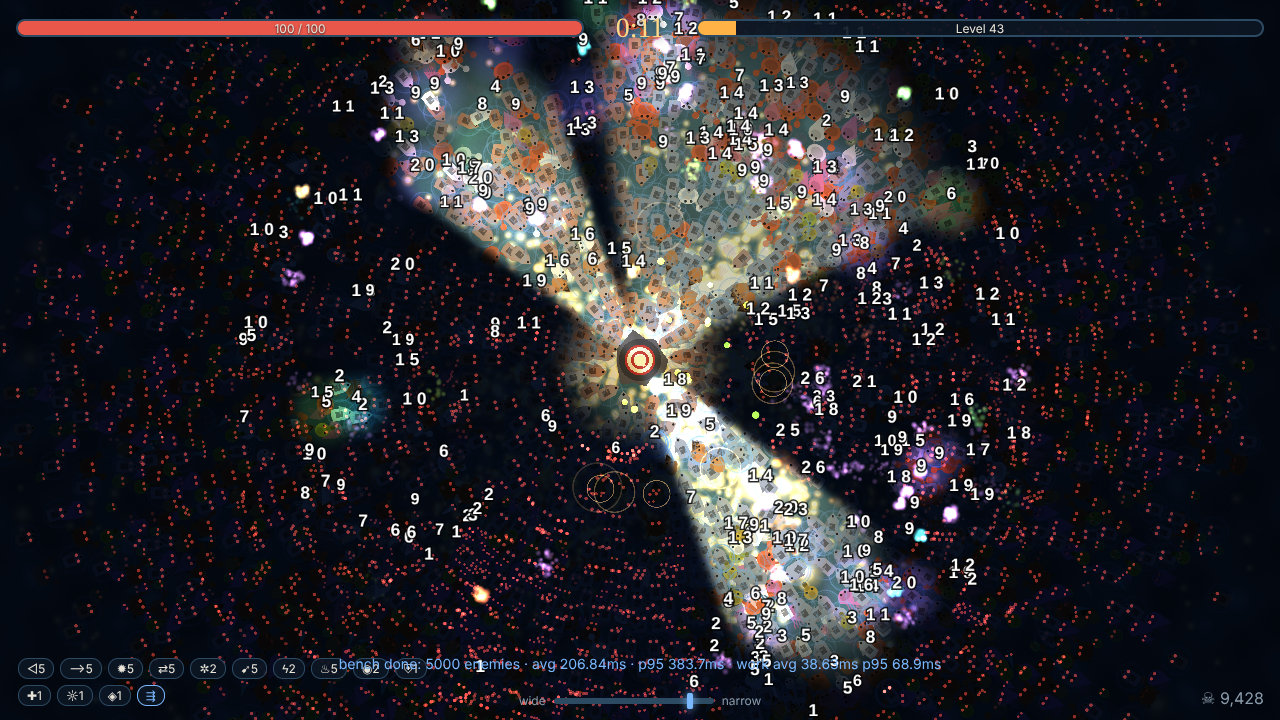
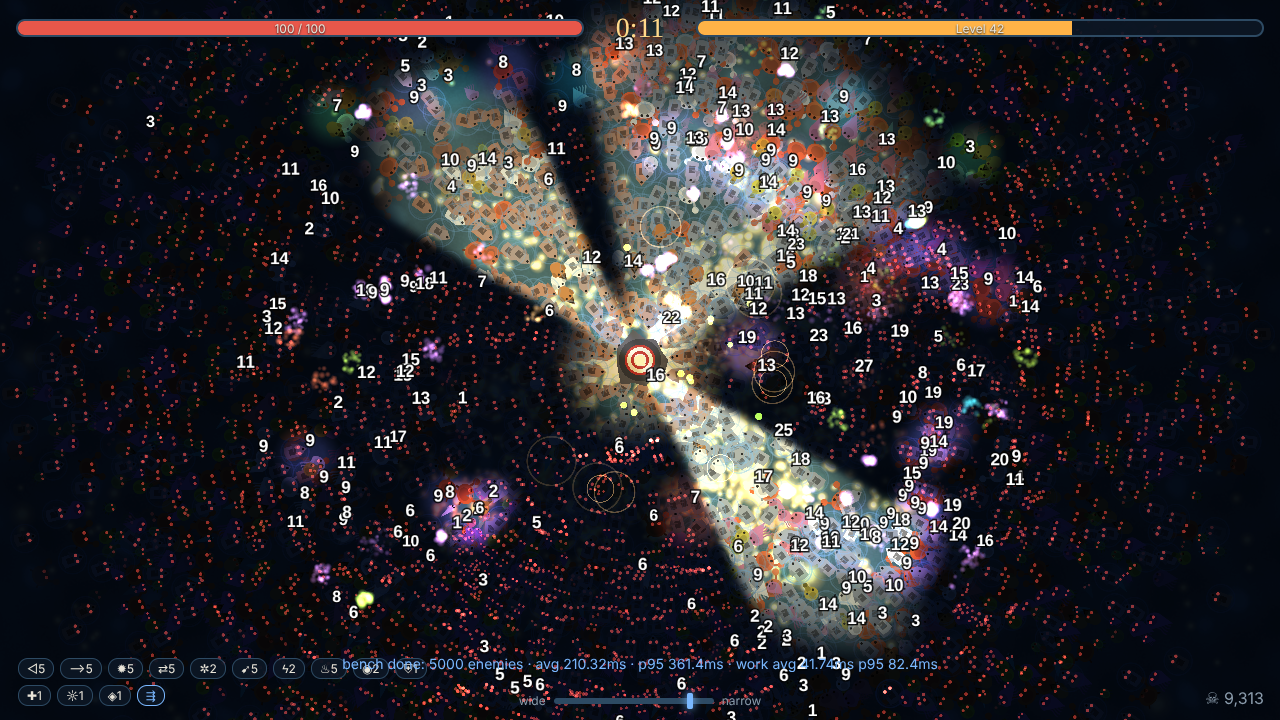
M3+M4: menus/meta/settings checks, allocation profiling, screenshots, ITCH.md, itch.io package
Claude-Session: https://claude.ai/code/session_013c4jhh87XePh3AQefsztWg

diff --git a/src/render/partPool.ts b/src/render/partPool.ts
@@ -35,10 +35,14 @@ export class PartPool {
     p.rotation = rot;
     p.scaleX = sx;
     p.scaleY = sy;
-    // write the packed ABGR colour directly (the tint/alpha setters go through Color parsing)
+    // write the packed ABGR colour directly (the tint/alpha setters go through Color parsing),
+    // and only when it changed: packed colours with high alpha are outside V8's small-int
+    // range, so every write would box a new HeapNumber
     const a = alpha < 0 ? 0 : alpha > 1 ? 1 : alpha;
-    p.color = ((tint & 0xff) << 16) + (tint & 0xff00) + ((tint >> 16) & 0xff) + (((a * 255) | 0) << 24);
-    p.texture = tex ?? this.tex;
+    const c = ((tint & 0xff) << 16) + (tint & 0xff00) + ((tint >> 16) & 0xff) + (((a * 255) | 0) << 24);
+    if (p.color !== c) p.color = c;
+    const t = tex ?? this.tex;
+    if (p.texture !== t) p.texture = t;
     const ch = this.pc.particleChildren;
     if (ch[this.n] !== p) ch[this.n] = p;
     this.n++;

diff --git a/src/main.ts b/src/main.ts
@@ -40,6 +40,8 @@ const urlSeed = params.has('seed') ? Number(params.get('seed')) >>> 0 : null;
 const autoplay = params.get('autoplay') === '1';
 const benchN = Number(params.get('bench') ?? 0) | 0;
 const lightingOn = params.get('light') !== '0';
+/** debug: fast-forward the run this many seconds with the bot (screenshots, boss testing) */
+const fastForward = Number(params.get('ff') ?? 0);
 const antialias = params.get('aa') === '1';
 
 class Game {
@@ -85,6 +87,15 @@ class Game {
     this.save.runs++;
     window.__LH.seed = seed;
     this.audio.play('wave', { minGap: 0 });
+    if (fastForward > 0) {
+      const w = this.world;
+      while (w.t < fastForward && w.state === RunState.Running) {
+        if (w.pendingLevels > 0) { rollOffers(w); applyOffer(w, botPick(w)); }
+        botInput(w, this.input);
+        step(w, this.input);
+        w.events.clear();
+      }
+    }
   }
 
   startBench(n: number): void {

diff --git a/src/style.css b/src/style.css
@@ -27,7 +27,8 @@ h1, h2, h3 { margin: 0; font-family: Georgia, 'Times New Roman', serif; font-wei
 h2 { color: var(--accent); font-size: 30px; letter-spacing: 0.05em; }
 h3 { color: var(--dim); font-size: 14px; text-transform: uppercase; letter-spacing: 0.15em; margin-bottom: 6px; }
 
-.menu .title { font-size: clamp(48px, 10vw, 104px); letter-spacing: 0.2em; color: var(--accent); text-shadow: 0 0 40px var(--accent); }
+.menu { overflow: visible; }
+.menu .title { font-size: clamp(48px, 10vw, 104px); letter-spacing: 0.2em; color: var(--accent); text-shadow: 0 0 28px var(--accent); white-space: nowrap; }
 .menu .tagline { color: var(--dim); margin: 0 0 18px; text-align: center; }
 .menu-buttons { display: flex; flex-direction: column; gap: 10px; min-width: 280px; }
 .menu-buttons button { font-size: 18px; }

diff --git a/scripts/package.ts b/scripts/package.ts
@@ -1,0 +1,11 @@
+// Build the itch.io HTML5 upload: release/lighthouse-itch.zip with index.html at the root.
+//   npm run build && npm run package
+import { execFileSync } from 'node:child_process';
+import { existsSync, mkdirSync, rmSync, statSync } from 'node:fs';
+
+if (!existsSync('dist/index.html')) throw new Error('dist/ missing: run npm run build first');
+mkdirSync('release', { recursive: true });
+const out = 'release/lighthouse-itch.zip';
+rmSync(out, { force: true });
+execFileSync('zip', ['-r', '-9', '-q', `../${out}`, '.'], { cwd: 'dist', stdio: 'inherit' });
+console.log(`${out}: ${(statSync(out).size / 1024).toFixed(0)} KB`);

diff --git a/PROGRESS.md b/PROGRESS.md
@@ -1,11 +1,55 @@
 # Progress
 
 ## Done
-- M1 core sim: lighthouse, beam cone, enemies, director, embers, levelling, death screen, benchmark mode.
-- M2: darkness lighting pass, juice, all 8 enemy types, 3 bosses, 20 upgrades + 4 evolutions.
+All four milestones (M1–M4) are implemented and their acceptance checks pass, except the 60fps frame-time target, which cannot be measured meaningfully in this container (see Performance).
+
+- **M1** core sim: lighthouse, beam cone with focus, director with threat budget + seeded RNG, embers, levelling, death screen, `?bench=N`.
+- **M2** darkness lighting pass (render texture + multiply), juice (trauma shake, hit flash, pooled damage numbers, ember sparkle, low-HP flicker, boss-kill slow-mo, CRT vignette, synthesised SFX + sea/wind ambience), all 8 enemy types, 3 bosses, 20 upgrades + 4 evolutions, gamepad.
+- **M3** main menu with attract-mode bot game behind it, keeper's upgrades shop (8 meta upgrades x 5 ranks, coins), settings (master/effects/ambience volume, screen shake, colour-blind palette, CRT), pause, run summary (time, level, kills by type, damage by source, build, coins).
+- **M4** `scripts/sim.ts` bot harness + balance pass, `ITCH.md`, screenshots, `release/lighthouse-itch.zip` (`npm run package`).
+
+## Acceptance checks (last run 2026-10-30)
+- **Vitest** `npm test`: 21 tests pass — cone maths (wrap at ±π, zero width, range boundary, edge inclusivity), spatial hash circle + cone queries vs brute force (randomised, 40 trials x 50–60 queries), pool reuse/churn, director determinism (same seed → same spawn log, independent of play; whole bot run reproducible).
+- **Playwright** `npm run e2e`: 3 tests pass — `?seed=1&autoplay=1` still running after 30s at level ≥ 3 with zero console errors; menu → shop → settings → manual run → level-up card → pause → summary with zero console errors; bench reports stats. Screenshots in `screenshots/`.
+- **Balance** `npm run sim -- 200` (full output in `reports/balance.txt`, JSON in `reports/balance.json`):
+
+| | median survival | p10 / p25 / p75 / p90 | reached 15:00 | killed final boss |
+|---|---|---|---|---|
+| bot, no meta (target median 6–9 min) | **8:57** | 5:34 / 5:36 / 10:16 / 10:27 | 0% | 0% |
+| bot, full meta (target 30–60% reach 15:00) | 15:00 | 11:06 / 12:52 / 15:00 / 15:04 | **50.5%** | 40.0% |
+
+  No-meta deaths are bimodal: 30% at the Leviathan (5:00) and 40% at the Kraken (10:00), the rest in between. Most picked: Brighter Wick, Harpoon Turret, Long Throw, Rear Lamp, Wide Lens. Least picked: Whale Oil, Ember Magnet, Cold Light, Hearth Glow (the bot's fixed priority list puts these last), and the Thunder Lanterns / Wildfire evolutions (rarely completed). Damage taken comes almost entirely from bosses, spitter/boss projectiles and shielded ships; the bot's aim makes fodder harmless, so humans will find minutes 0–5 harder than the bot does.
+
+## Performance
+`?bench=5000` in headless Chromium 1243 (SwiftShader software GL, 4-core container), 10s after 1.5s warm-up:
+
+| viewport | enemies | avg frame | p95 frame | sim tick avg / p95 | draw (CPU) avg / p95 | fps |
+|---|---|---|---|---|---|---|
+| 1280x720 | 5000 | 210 ms | 361 ms | 5.65 / 10.3 ms | 6.9 / 16.1 ms | 4.8 |
+| 320x180 | 5000 | 35.7 ms | 61.4 ms | 4.3 / 8.7 ms | 4.4 / 9.9 ms | 28 |
+| 1280x720 | 1000 | 140 ms | 252 ms | 1.07 / 2.1 ms | 2.4 / 5.9 ms | 7.2 |
+
+Frame time scales with viewport area, not enemy count: it is bound by SwiftShader's software rasterisation, so these numbers say nothing about a real GPU. The CPU side (one 60Hz sim tick + building the draw) is ~9–12 ms at 5,000 enemies here, which fits a 16.7 ms frame on average but not at p95 in this container. Headless node (`npx tsx scripts/benchSim.ts 5000`): 2.8 ms per sim tick. **Not yet verified on a real mid-range laptop with a GPU** — run `?bench=5000` in desktop Chrome to check the 60fps target.
+
+Optimisations made: separation scans capped at 24 neighbour candidates (sim tick 5.3 → 2.8 ms in node), typed-array `subarray` views removed from the tick, particle colours written packed and only when changed.
+
+### Allocation (Chrome sampling heap profiler, `scripts/allocProfile.mjs`)
+- Normal play (`?seed=1&autoplay=1`, 15s): **~1.1 KB allocated per frame in total**, mostly Pixi's ticker/renderer internals. All `src/sim` + `src/core` files together: ~15 KB over 751 ticks (~20 B/tick). Reports: `reports/alloc-autoplay.txt`.
+- Bench 5,000 (`reports/alloc-bench.txt`): ~15 KB/frame, mostly inside `PartPool.add` / Pixi Particle setters and V8 HeapNumber boxing of doubles; sim files ~70 KB over 303 ticks.
+- The sim creates no objects, arrays or closures per tick (all state in fixed typed arrays, scratch query buffers on the World, free-list pools). What the sampler still attributes to sim files is V8 boxing doubles passed to non-inlined functions (e.g. `damageEnemy(w, i, amount)`), plus offer rolling on level-up (by design, not per frame).
 
 ## State
-- Session 1 in progress. See git log.
+- Repo is local (no remote was configured for the project); shipped as zips in project files.
+- `main` is runnable: `npm install && npm run dev`.
+
+## Known bugs / rough edges
+- Wide beams use a y-scaled wedge texture, so the arc end of a very wide beam is slightly elliptical.
+- Sound is silent until the first key/mouse/gamepad press (browser autoplay policy).
+- Damage numbers overlap in dense fights (by design they are pooled to 256).
+- On narrow portrait windows the menu title can overflow (mobile is out of scope).
+- The bot ignores Ember Magnet / Cold Light / Hearth Glow, so their balance is untested by the harness.
 
 ## Next up
-- M3/M4.
+- Measure `?bench=5000` on a real mid-range laptop with a GPU and record it here.
+- Human playtests of minutes 0–5 (the bot finds them trivial) and of Ships (the main damage source).
+- Optional: smarter bot that values defensive picks, to get balance data on the unpicked upgrades.

diff --git a/ITCH.md b/ITCH.md
@@ -1,0 +1,35 @@
+# Lighthouse — itch.io page
+
+**Tagline:** You are the last lighthouse. Hold back the night sea for fifteen minutes.
+
+## Short description
+Things crawl out of the dark water toward your rock. You can't move. You can only aim the light.
+
+Sweep a beam of light across the night sea and burn back eels, crabs, splitting jellies, shielded ships, spitters and burrowers. Narrow the beam to burn hard, widen it to cover more. Gather the embers they leave behind, but only the ones your light touches drift home. Level up, pick from 20 upgrades (rear lamps, harpoon turrets, chain lightning, lantern drones, fog horns…), max out the right pairs for four evolutions, and survive three bosses until dawn.
+
+## Controls
+| | Mouse & keyboard | Gamepad |
+|---|---|---|
+| Aim | Mouse, or A / D | Right stick (left stick turns) |
+| Focus (narrow / wide) | Mouse wheel, or W / S | RT / LT |
+| Pause | Esc or P | Start |
+| Pick upgrade | Click, or 1 / 2 / 3 | D-pad + A |
+
+## Features
+- 8 enemy types and 3 bosses (5:00, 10:00, 15:00)
+- 20 upgrades with 5 levels each, plus 4 evolutions
+- 8 permanent keeper's upgrades bought with coins between runs
+- Real darkness: enemies outside your light are only eyes in the night
+- Colour-blind palette, screen-shake slider, CRT vignette, volume controls
+- Fully playable with a gamepad
+- Synthesised sound, no downloads: about 200 KB
+
+## Upload settings (itch.io)
+- Kind of project: **HTML**
+- Upload `release/lighthouse-itch.zip` and tick **"This file will be played in the browser"**
+- Viewport: 1280 × 720, tick **Fullscreen button**, and **Mobile friendly: off** (no touch controls)
+- Genre: Action / Survival. Tags: `bullet-heaven`, `roguelite`, `arcade`, `dark`, `gamepad`, `lighthouse`
+- Screenshots: `screenshots/gameplay-*.png`, `screenshots/menu.png`, `screenshots/levelup.png`, `screenshots/colorblind-crt.png`
+
+## Credits
+Design, code, art (generated at runtime) and sound (synthesised at runtime): made with Vite, TypeScript and PixiJS v8.

diff --git a/README.md b/README.md
@@ -1,0 +1,24 @@
+# Lighthouse
+
+You are the last lighthouse. Aim the light, survive 15 minutes. Vite + TypeScript (strict) + PixiJS v8.
+
+```bash
+npm install
+npm run dev          # http://localhost:5173
+npm test             # Vitest: cone maths, spatial hash vs brute force, pools, director determinism
+npm run e2e          # Playwright: autoplay smoke test, menus, bench (builds + previews on :4173)
+npm run sim -- 200   # headless balance harness: 200 seeded bot runs without and with full meta
+npm run build && npm run package   # release/lighthouse-itch.zip for itch.io
+```
+
+URL parameters: `?seed=123` (reproduce a run's spawns), `?autoplay=1` (the bot plays), `?bench=5000` (benchmark: 5,000 enemies, logs `[bench]` frame stats after 10s), `?ff=300` (debug: fast-forward 300s with the bot), `?light=0` (debug: no lighting pass).
+
+## Layout
+- `src/data/` all tuning (`config.ts`), colours (`palette.ts`), upgrades (`upgrades.ts`), meta upgrades (`meta.ts`)
+- `src/core/` seeded RNG, angle maths, free-list `Pool`, uniform-grid `SpatialHash`
+- `src/sim/` the headless simulation: SoA stores, director, enemies, beam/light pass, weapons, embers, bot. No Pixi imports, so it runs in Node.
+- `src/render/` Pixi renderer: per-type ParticleContainers, lighting render texture, pooled fx
+- `src/audio/` zzfx-style synth and ambience; `src/input/` mouse/keys/gamepad; `src/game/` DOM UI and save
+- `scripts/sim.ts` balance harness, `scripts/allocProfile.mjs` Chromium allocation sampling, `scripts/screenshots.mjs`
+
+See `SPEC.md`, `PROGRESS.md` and `DECISIONS.md`.

diff --git a/DECISIONS.md b/DECISIONS.md
@@ -21,6 +21,12 @@ Ambiguities in SPEC.md and the simplest choice made for each.
 - Enemy HP scales with time via `CONFIG.director.hpCurve`.
 - Hard cap of `maxEnemies` (900) live enemies outside bench mode.
 
+- The threat budget drops to 0 at 15:00: dawn is a duel with the Drowned Maw rather than a wall of fodder.
+
+## Balance
+- Balance targets are judged by `scripts/sim.ts` (200 seeds each). "Reaches 15 minutes" is counted as survived to 15:00 (50.5% with full meta); killing the final boss (the win condition) is reported separately (40%).
+- The bot aims at the threat-weighted densest angular bin within range (smoothed by the beam width, with hysteresis), narrows the beam when shielded targets dominate the window, and picks upgrades from a fixed priority list (evolutions first).
+
 ## Progression
 - Offers: evolutions that are ready always appear first; otherwise weighted random from non-maxed upgrades (owned ones x1.5 weight). If everything is maxed the card is "Patch the walls" (heal 30%).
 - Evolutions (4): Twin Suns (Rear Lamp + Brighter Wick), Thunder Lanterns (Lantern Drones + Chain Lightning), Wildfire (Burning Light + Flash), Storm Ballista (Harpoon Turret + Long Throw).
